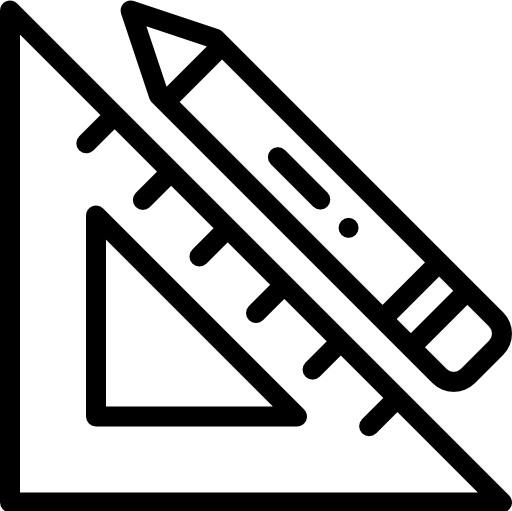
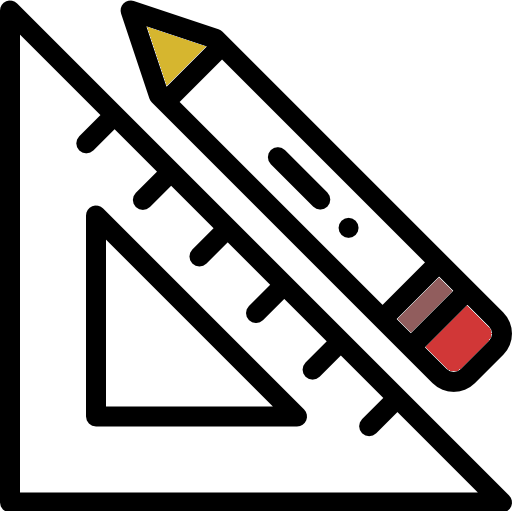
agrego icono colores

Changed region(s): [[0.8125, 0.5871, 0.9688, 0.7339], [0.2812, 0.0587, 0.4062, 0.1761], [0.7812, 0.5284, 0.875, 0.6458]]

diff --git a/src/app/app.component.html b/src/app/app.component.html
@@ -7,7 +7,7 @@
             [nzTrigger]="null">
     <div class="sidebar-logo">
       <a href="bienvenido/" target="_blank">
-        <img src="./assets/herramienta-de-diseno.png" alt="logo">
+        <img src="./assets/herramienta-de-diseno.gif" alt="logo">
         <h1>Índigo Gráfica</h1>
       </a>
     </div>
